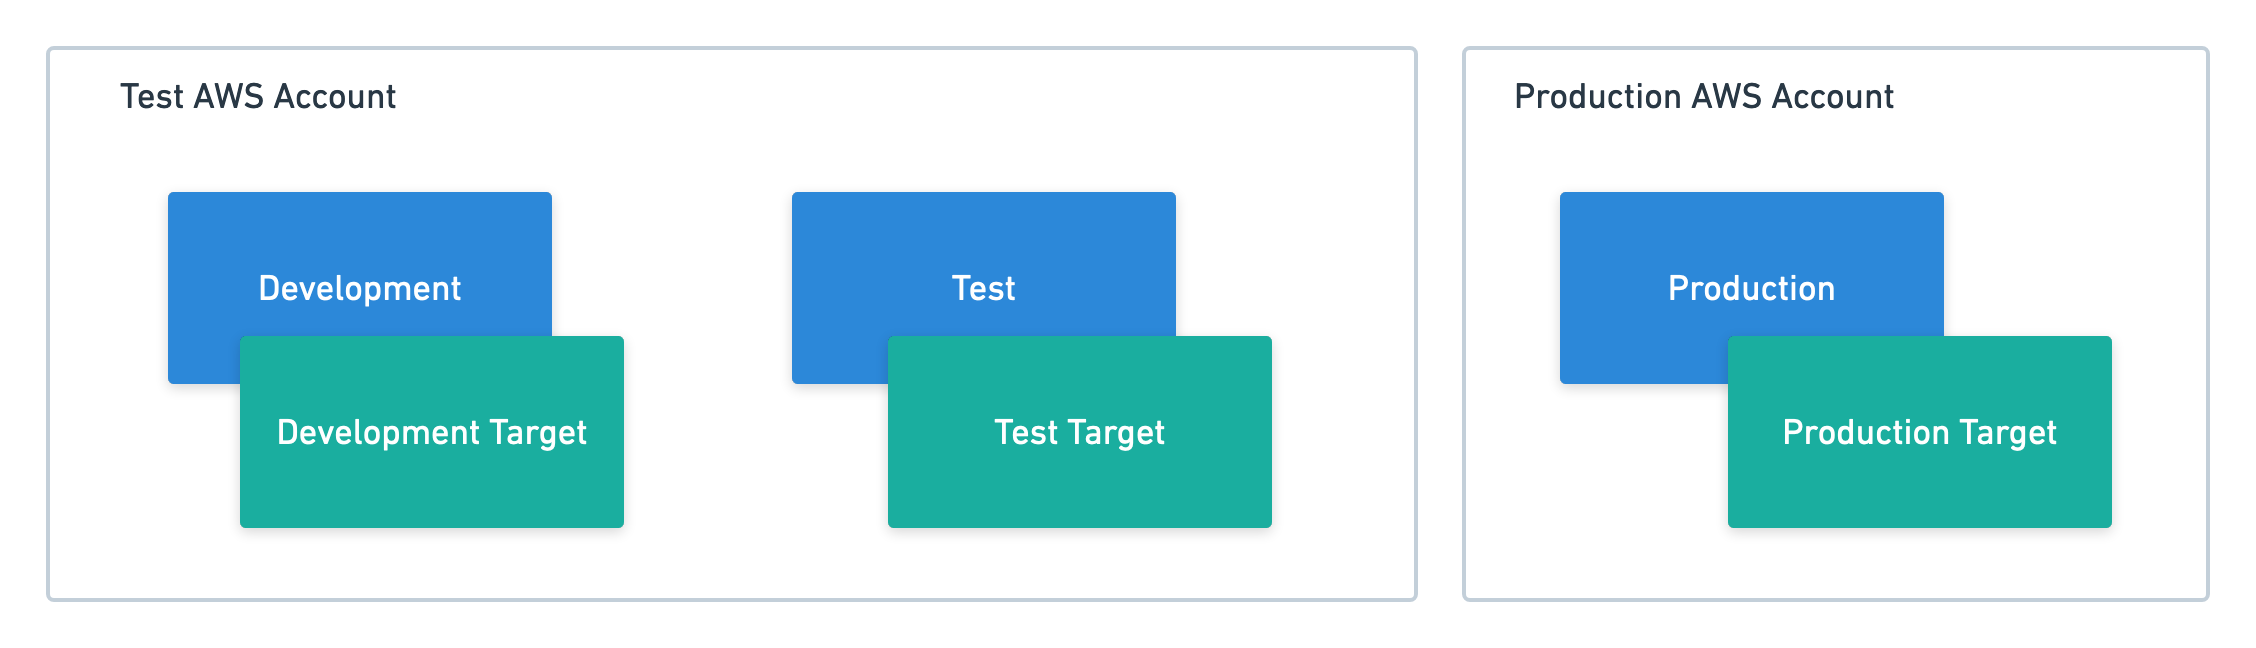
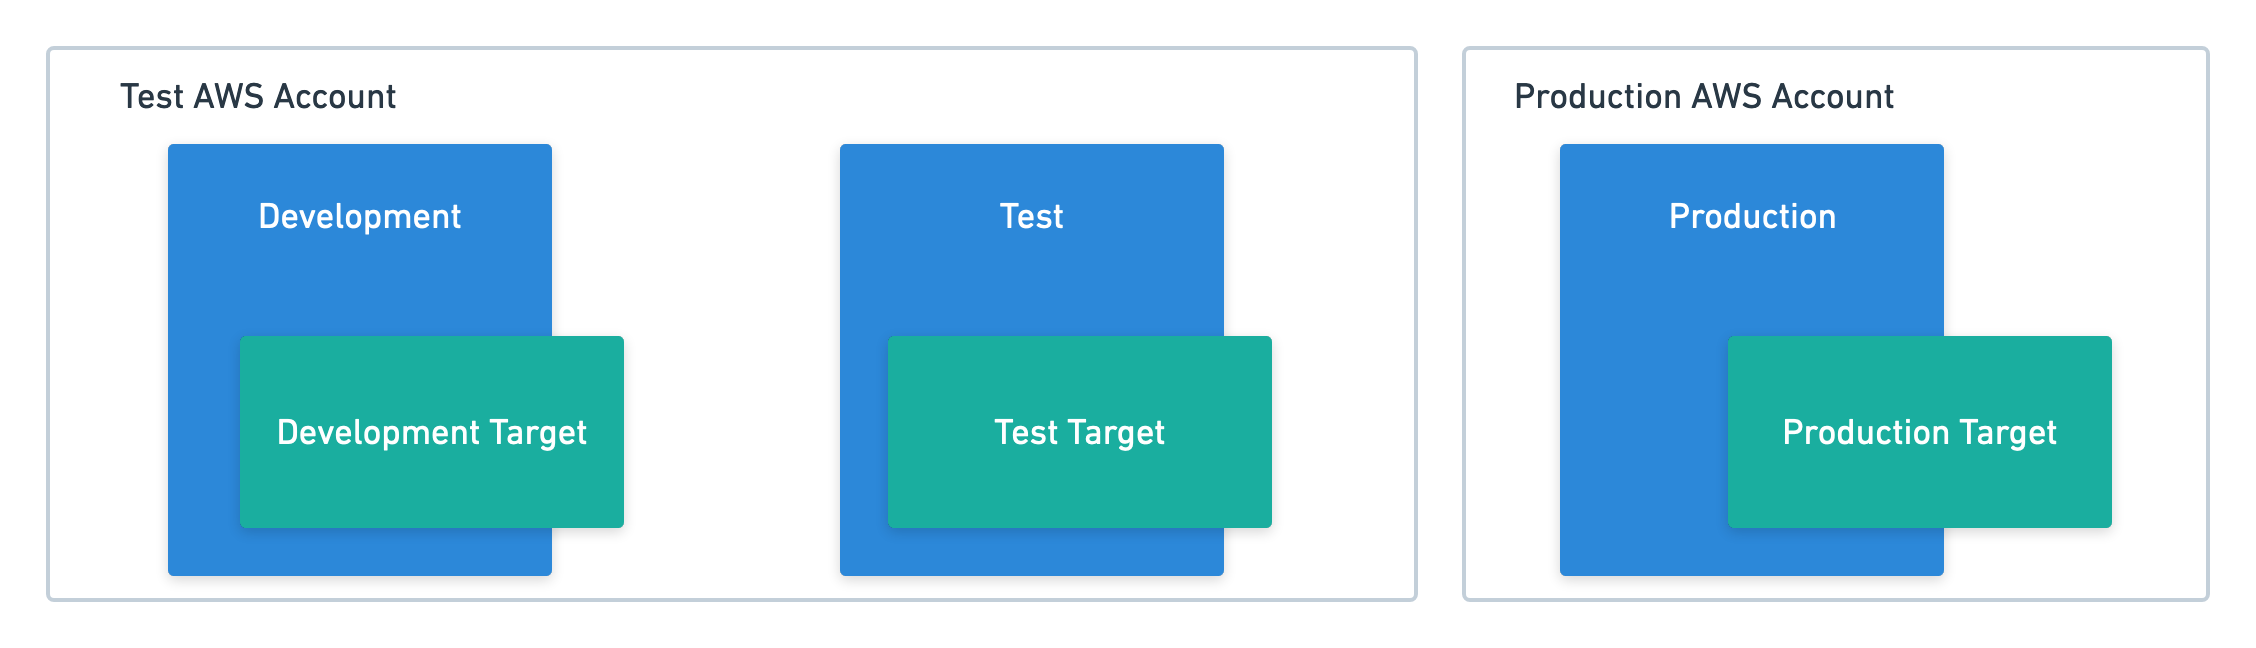
fixed some images

diff --git a/blog/2021-06/rfc-ecs-milestone1/index.md b/blog/2021-06/rfc-ecs-milestone1/index.md
@@ -88,8 +88,6 @@ With ECS targets it makes little difference whether you deploy many logical envi
 
 ![](targets.png "width=500")
 
-*Diagram showing targets sharing a cluster, using multiple clusters, or using multiple accounts.*
-
 ### Abstracting away task definition versions
 
 If you have ever had to deploy a new Docker image by first creating a new task definition version and then updating the service to reference it, you will appreciate how tedious manual ECS deployments can be.
@@ -106,9 +104,7 @@ The new ECS targets can be scoped to tenants, once again abstracting away the de
 
 Meanwhile channel rules can be applied to Docker image tags, facilitating deployment patterns like hotfixes that go straight to production.
 
-![](https://via.placeholder.com/500x300 "width=500")
-
-*Diagram showing multitenant targets.*
+![](tenants.png"width=500")
 
 ### Fall back to CloudFormation
 
